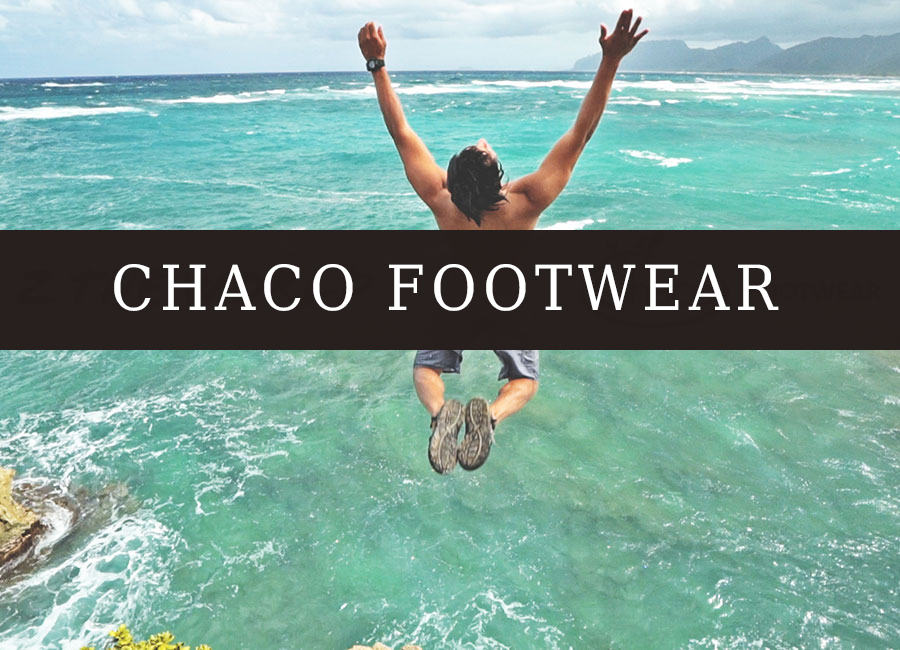
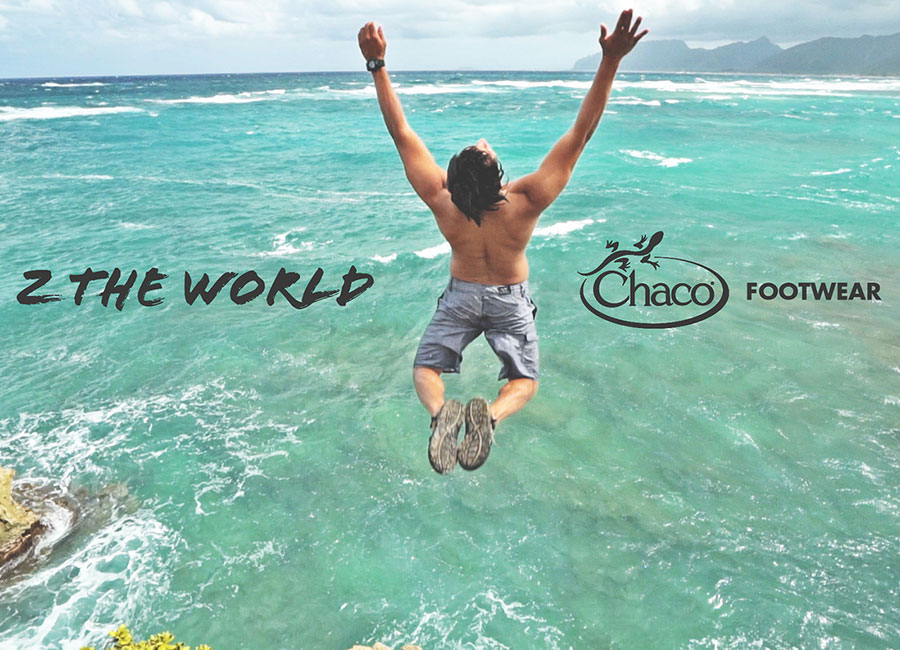
asdasd
asdasdasd

Changed region(s): [[0.0, 0.3385, 1.0, 0.5538]]

diff --git a/index.html b/index.html
@@ -121,7 +121,9 @@
             <a class="portfolio-link" href="#portfolioModal12" data-toggle="modal">
               <div class="caption">
                 <div class="caption-content">
-                  <i class="fa fa-search-plus fa-3x"></i>
+                  <!-- <i class="fa fa-search-plus fa-3x"></i>-->
+					GO Jordan<br />
+					Client: Tourism Jordan				  
                 </div>
               </div>
               <img class="img-fluid" src="img/portfolio/gojordan.jpg" alt="Go Jordan">
@@ -131,7 +133,9 @@
             <a class="portfolio-link" href="#portfolioModal2" data-toggle="modal">
               <div class="caption">
                 <div class="caption-content">
-                  <i class="fa fa-search-plus fa-3x"></i>
+					Z The World<br />
+					Client: Chaco Footwear
+                  <!-- <i class="fa fa-search-plus fa-3x"></i> -->
                 </div>
               </div>
               <img class="img-fluid" src="img/portfolio/chaco.jpg" alt="Chaco Footwear">
